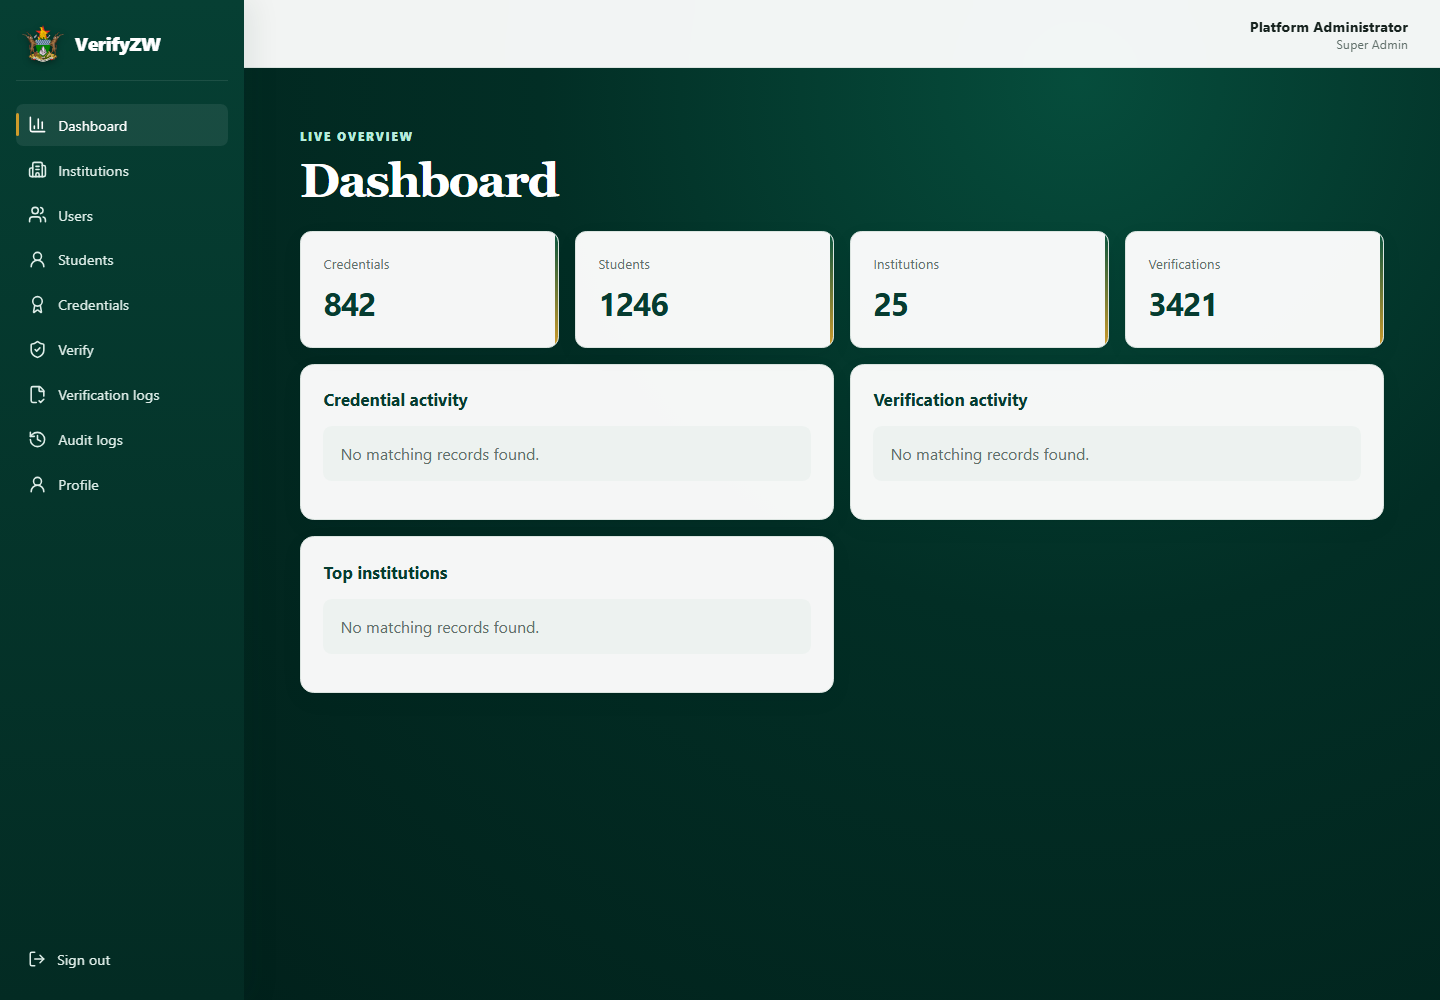
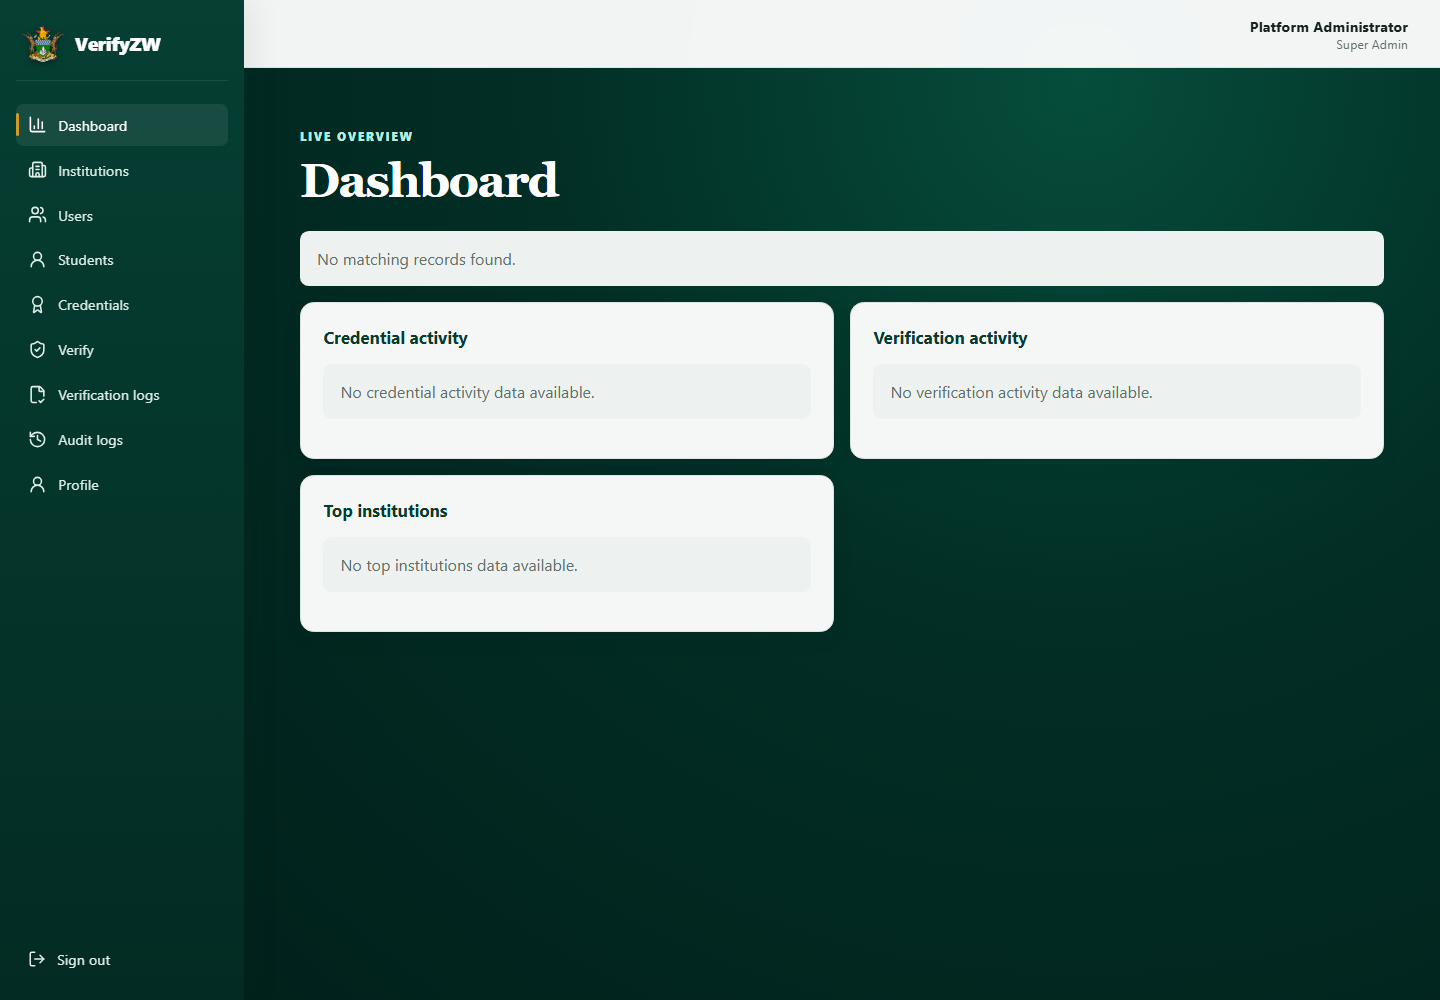
fix: align dashboard analytics rendering to API contracts
Dashboard was attempting to filter flat numeric values from response envelope.
Backend returns nested structures: {institutions, users, students, credentials,
verifications} with domain-specific fields, plus {series} arrays for trends.

Explicit mapping for each metric group with correct field names and types.
ChartCard now receives 'kind' parameter to distinguish institution_name/period
axis and correct series keys.

Add expandable data table for chart transparency (accessibility).

Expected request envelope now matches validator/controller/service contracts:
- Top institutions: {series, groupBy, dateFrom, dateTo}
- Credential trends: {series, groupBy, dateFrom, dateTo}
- Verification trends: {series, groupBy, dateFrom, dateTo}
- Summary: {institutions, users, students, credentials, verifications}

Test coverage:
- 36/36 dashboard analytics tests pass
- Summary state handles zero and missing fields
- Trend data unmapped correctly
- Widget role gates preserved

Changed region(s): [[0.1875, 0.434, 0.9688, 0.589], [0.1875, 0.217, 0.9688, 0.403], [0.1875, 0.62, 0.5938, 0.713]]

diff --git a/frontend/src/pages/Dashboard.tsx b/frontend/src/pages/Dashboard.tsx
@@ -35,12 +35,16 @@ export function Dashboard() {
     queryFn: () => get("/dashboard/top-institutions"),
     enabled: user?.role === "super_admin",
   });
-  const values =
-    summary.data && typeof summary.data === "object"
-      ? Object.entries(summary.data)
-          .filter(([, v]) => typeof v === "number")
-          .slice(0, 8)
-      : [];
+  const metrics: Record<string, string[]> = {
+    institutions: ["total", "active", "inactive"],
+    users: ["total", "active", "inactive"],
+    students: ["total"],
+    credentials: ["total", "pending", "processing", "active", "failed", "revoked"],
+    verifications: ["total", "verified", "revoked", "unknown", "pending", "failed", "inconsistency"],
+  };
+  const values = Object.entries(metrics).flatMap(([group, fields]) =>
+    fields.filter(field => typeof summary.data?.[group]?.[field] === "number")
+      .map(field => [`${group} ${field}`, summary.data[group][field]] as const));
   return (
     <div className="page">
       <div className="page-head">
@@ -67,11 +71,11 @@ export function Dashboard() {
       </State>
       <div className="chart-grid">
         {user?.role !== "verifier" && (
-          <ChartCard title="Credential activity" query={ct} type="area" />
+          <ChartCard title="Credential activity" query={ct} type="area" kind="credentials" />
         )}
-        <ChartCard title="Verification activity" query={vt} type="bar" />
+        <ChartCard title="Verification activity" query={vt} type="bar" kind="verifications" />
         {user?.role === "super_admin" && (
-          <ChartCard title="Top institutions" query={top} type="bar" />
+          <ChartCard title="Top institutions" query={top} type="bar" kind="institutions" />
         )}
       </div>
     </div>
@@ -81,39 +85,47 @@ function ChartCard({
   title,
   query,
   type,
+  kind,
 }: {
   title: string;
   query: { isLoading: boolean; error: unknown; data: unknown };
   type: "area" | "bar";
+  kind: "credentials" | "verifications" | "institutions";
 }) {
-  const raw = query.data as Record<string, unknown> | unknown[] | undefined;
-  const data = Array.isArray(raw)
-    ? raw
-    : (raw && (Object.values(raw).find(Array.isArray) as unknown[])) || [];
+  const raw = query.data as { series?: Record<string, unknown>[] } | Record<string, unknown>[] | undefined;
+  const data = kind === "institutions" ? (Array.isArray(raw) ? raw : []) : (!Array.isArray(raw) && Array.isArray(raw?.series) ? raw.series : []);
+  const axis = kind === "institutions" ? "institution_name" : "period";
+  const series = kind === "credentials" ? ["issued", "activated", "failed", "revoked"] : kind === "institutions" ? ["total_credentials"] : ["total"];
+  const colors = ["#08775d", "#315db0", "#b5252d", "#805019"];
   return (
     <Card title={title}>
-      <State loading={query.isLoading} error={query.error} empty={!data.length}>
+      <State loading={query.isLoading} error={query.error}>
+        {!data.length ? <div className="empty">No {title.toLowerCase()} data available.</div> : <>
         <div className="chart" aria-label={`${title} chart`} role="img">
           <ResponsiveContainer width="100%" height="100%">
             {type === "area" ? (
               <AreaChart data={data as object[]}>
                 <CartesianGrid strokeDasharray="3 3" />
-                <XAxis dataKey="period" />
+                <XAxis dataKey={axis} />
                 <YAxis />
                 <Tooltip />
-                <Area dataKey="total" stroke="#08775d" fill="#b9eadc" />
+                {series.map((key, i) => <Area key={key} dataKey={key} stroke={colors[i]} fill={colors[i]} fillOpacity={0.15} />)}
               </AreaChart>
             ) : (
               <BarChart data={data as object[]}>
                 <CartesianGrid strokeDasharray="3 3" />
-                <XAxis dataKey="period" />
+                <XAxis dataKey={axis} />
                 <YAxis />
                 <Tooltip />
-                <Bar dataKey="total" fill="#08775d" />
+                {series.map((key, i) => <Bar key={key} dataKey={key} fill={colors[i]} />)}
               </BarChart>
             )}
           </ResponsiveContainer>
         </div>
+        <details><summary>View {title.toLowerCase()} data</summary><div className="table-wrap"><table aria-label={`${title} data`}>
+          <thead><tr><th scope="col">{kind === "institutions" ? "Institution" : "Period"}</th>{series.map(key => <th scope="col" key={key}>{key.replaceAll("_", " ")}</th>)}</tr></thead>
+          <tbody>{data.map((row, index) => <tr key={index}><th scope="row">{String(row[axis])}</th>{series.map(key => <td key={key}>{String(row[key] ?? "?")}</td>)}</tr>)}</tbody>
+        </table></div></details></>}
       </State>
     </Card>
   );
